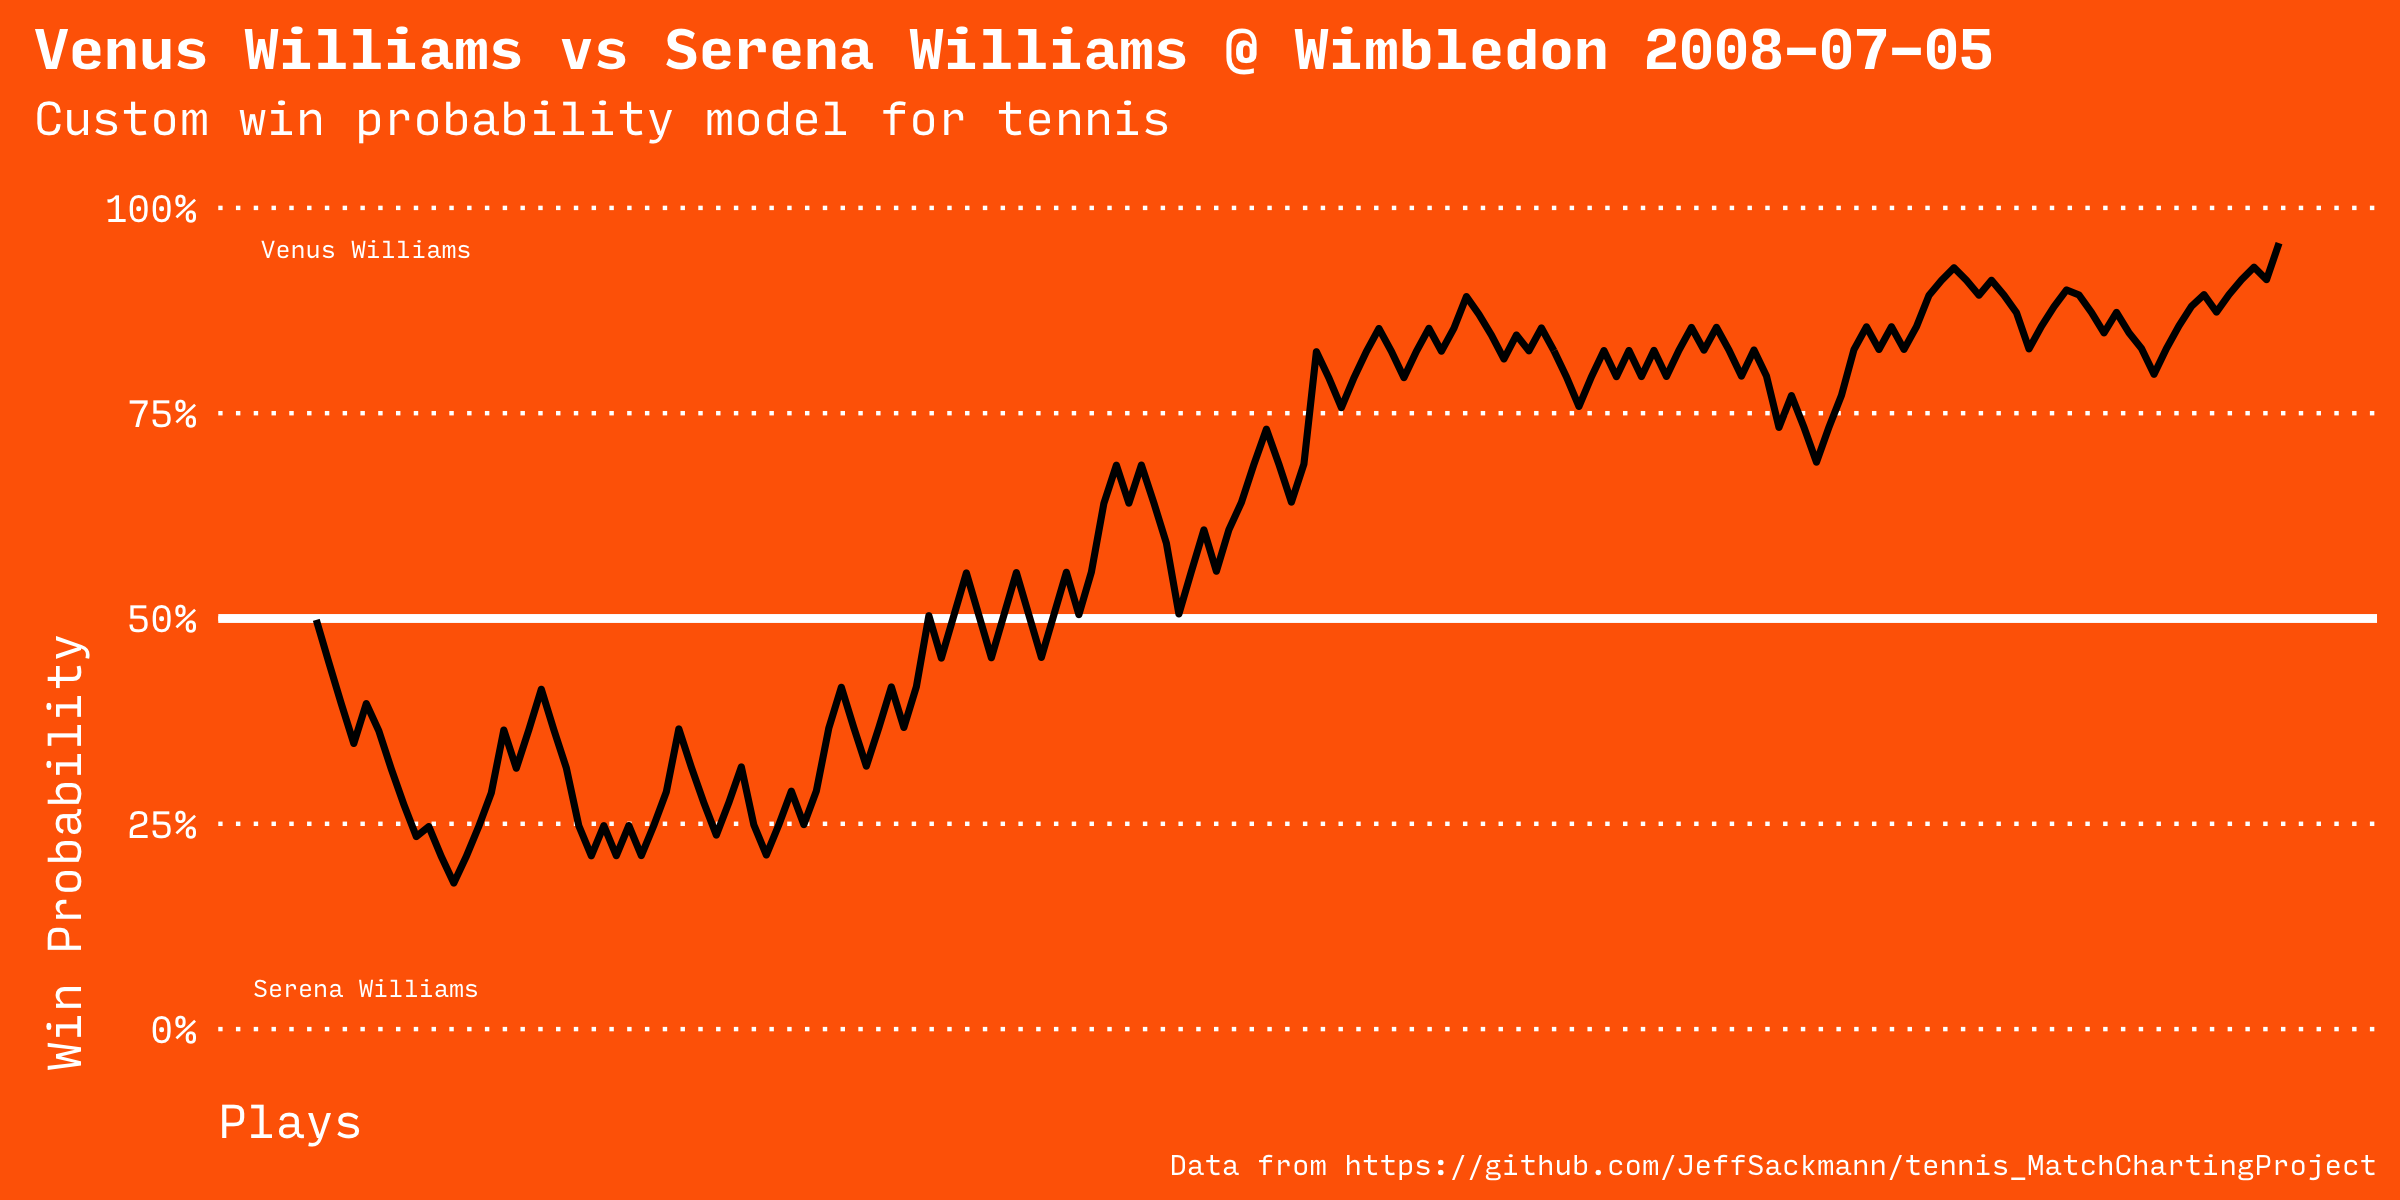
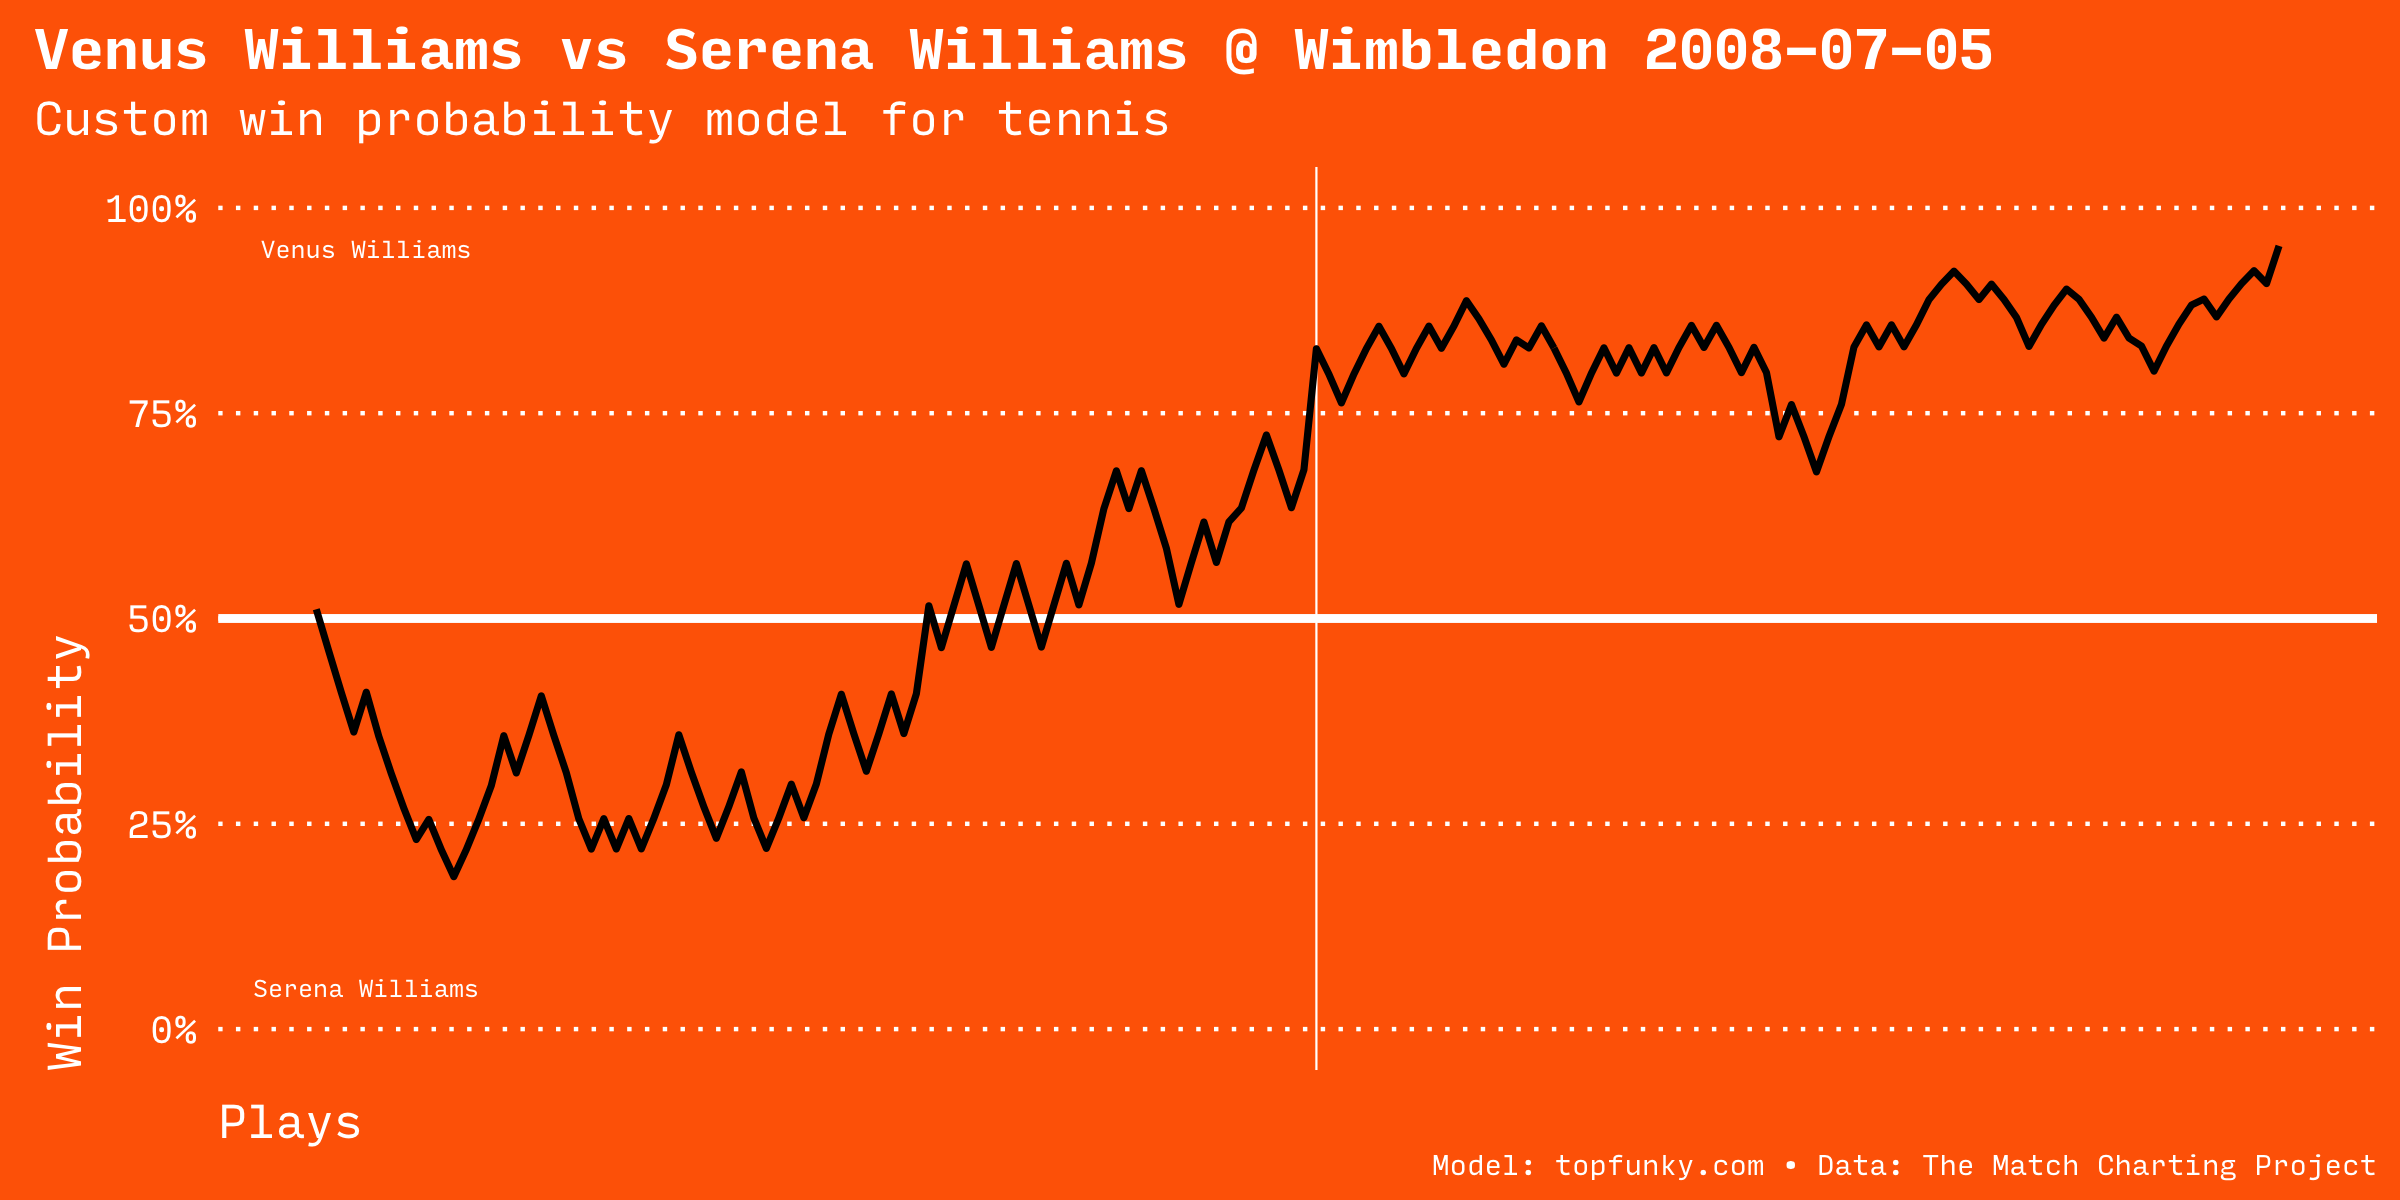
Render charts and update README for sets
The newest charts show each set. An exciting game between Federer and
Nadal is used as the example in the README.

diff --git a/README.md b/README.md
@@ -4,13 +4,14 @@ An experiment in building an in-game win probability model for tennis matches.
 
 ## Sample match
 
-- http://www.tennisabstract.com/charting/20080705-W-Wimbledon-F-Venus_Williams-Serena_Williams.html
+- [Point by point](http://www.tennisabstract.com/charting/20080705-W-Wimbledon-F-Venus_Williams-Serena_Williams.html)
 
 ![Venus v Sabrina](out/w/20080705-W-Wimbledon-F-Venus_Williams-Serena_Williams.png)
 
-- http://www.tennisabstract.com/charting/20200130-M-Australian_Open-SF-Roger_Federer-Novak_Djokovic.html
+- [Point by point](http://www.tennisabstract.com/charting/20050403-M-Miami_Masters-F-Roger_Federer-Rafael_Nadal.html)
+- [Video highlights](https://www.youtube.com/watch?v=QKlXGgbwwJI)
 
-![Federer v Djokovic](out/m/20200130-M-Australian_Open-SF-Roger_Federer-Novak_Djokovic.png)
+![Federer v Nadal](out/m/20050403-M-Miami_Masters-F-Roger_Federer-Rafael_Nadal.png)
 
 ## Accuracy
 
@@ -35,4 +36,4 @@ Data cleanup tasks to do:
 - Same for `Gm1` and `Gm2`
 - The model uses points, games, and sets
 - The identity of the player serving the ball is not currently included in the model
-- Need to add reference lines for games or sets.
+- Add estimated points (EPA) for potentially even greater accuracy
